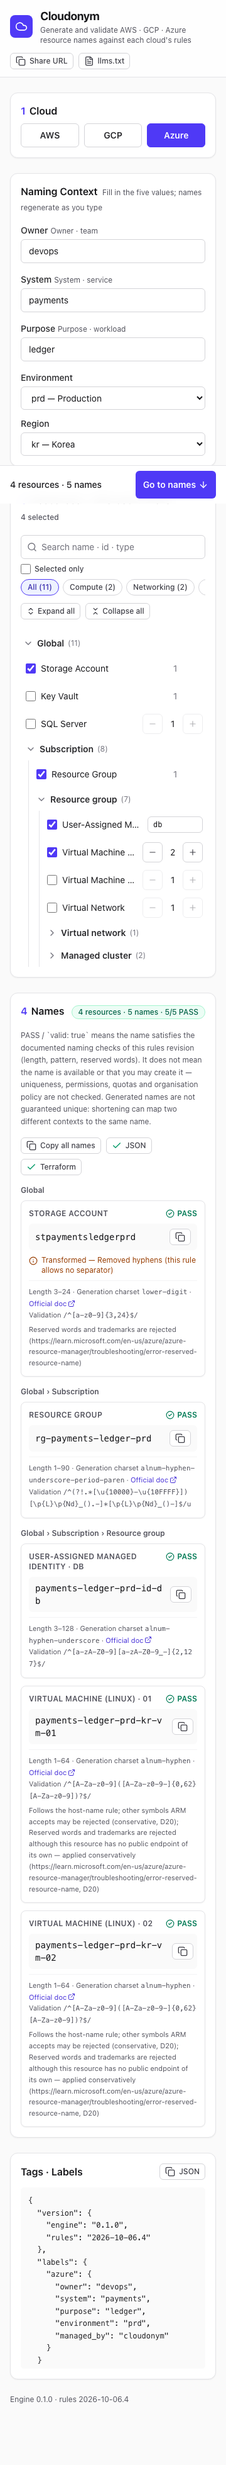
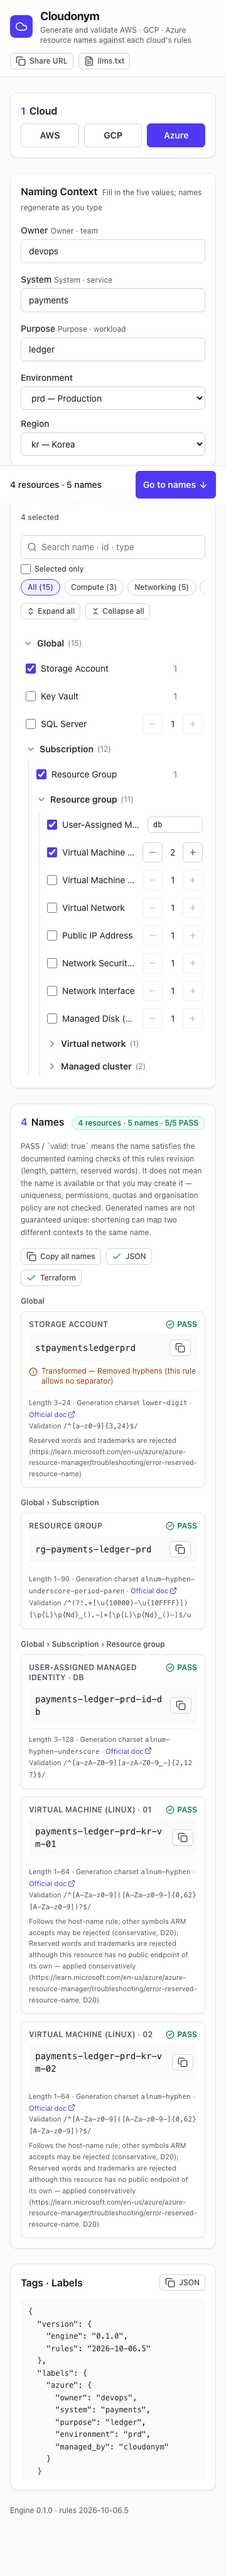
test(ui): 트리 단언을 규칙 수에 묶지 않고 /llms.txt 트리와 성질로 잰다
규칙 11종이 더해지자 screen.py 의 리터럴 단언(분류 칩 행 · 행 수 11 · 처음 펼침 · 접기)이 깨졌다.
Azure 규칙이 크게 늘어도 뜻이 남게 바꾼다.

- 기대 트리는 앱이 내는 /llms.txt 「Resource tree」 Azure 절(타입 · 범위 깊이)에서 읽는다
- 펼친 트리의 (타입, 깊이) 전체가 그 목록과 같다 · 행 수 = 목록 길이 = All 칩 수
- 처음 펼침 = 깊이 0·1 규칙 전부 · 접기 = 깊이 0 규칙 전부 (앵커가 들어 있는지도 본다)
- 분류 칩: 누르면 보이는 행이 전부 그 분류 · 그 분류의 행 전부 · 칩의 수와 같다
- 검색: 펼친 전체 행에서 일치(type · 글자 · entity)를 따로 계산해 화면과 맞춘다
- ArrowDown: 지금 보이는 행 순서에서 VM 바로 다음 행
- 트리 행에 data-rule-category · data-entity 를 더한다(동작 불변 · 칩의 data-category 와 겹치지 않는 이름)

Claude-Session: https://claude.ai/code/session_013cFmk13xQuqLdriiieEhxz

diff --git a/src/components/ResourceTree.tsx b/src/components/ResourceTree.tsx
@@ -226,7 +226,7 @@ const Row = memo(function Row({ rule, entry, canCheck, canInc, onToggle, onCount
   const kind = inputKind(rule);
   const name = { displayName: rule.displayName };
   return (
-    <div data-rule={rule.id} data-type={rule.resourceType} data-checked={checked} className="flex min-h-11 items-center gap-2 rounded-md px-1 hover:bg-zinc-50 dark:hover:bg-zinc-800/60">
+    <div data-rule={rule.id} data-type={rule.resourceType} data-rule-category={rule.category} data-entity={rule.entity} data-checked={checked} className="flex min-h-11 items-center gap-2 rounded-md px-1 hover:bg-zinc-50 dark:hover:bg-zinc-800/60">
       <label className="flex min-w-0 flex-1 cursor-pointer items-center gap-2 text-sm">
         <input type="checkbox" data-row-check checked={checked} disabled={!canCheck} onChange={() => onToggle(rule)}
           aria-label={fillUi(en, 'select_resource_label', name)} className="size-4 shrink-0 accent-indigo-600 disabled:cursor-not-allowed" />

diff --git a/tests/ui/screen.py b/tests/ui/screen.py
@@ -125,6 +125,37 @@ def visible_types(page):
     return page.eval_on_selector_all('[data-tree] [data-rule]', 'els => els.filter(e => e.checkVisibility()).map(e => e.dataset.type)')
 
 
+# 트리의 행 — 타입 · 분류 · entity · 보이는 글자 · 보이는가 · 범위 깊이(뿌리 = 0, 걸러진 트리에서도 조상 범위가 남으므로 같다)
+ROWS_JS = '''els => els.map(e => {
+  let depth = -1;
+  for (let d = e.closest('details[data-scope]'); d; d = d.parentElement.closest('details[data-scope]')) depth++;
+  return { type: e.dataset.type, category: e.dataset.ruleCategory, entity: e.dataset.entity, text: e.innerText, visible: e.checkVisibility(), depth };
+})'''
+
+
+def rows_info(page):
+    return page.eval_on_selector_all('[data-tree] [data-rule]', ROWS_JS)
+
+
+def llms_tree(page, provider):
+    """/llms.txt 「Resource tree」의 한 CSP 절 → [(resource_type, 범위 깊이)] — 화면 밖에서 오는 규칙 목록(시험이 규칙 수를 적어 두지 않는다)"""
+    text = page.request.get(BASE + '/llms.txt').text()
+    sect = text.split('\n## Resource tree\n', 1)[1].split('\n## ', 1)[0]
+    block = sect.split(f'\n### {provider.upper()}\n', 1)[1].split('\n### ', 1)[0]
+    out = []
+    for line in block.splitlines():
+        stripped = line.lstrip(' ')
+        if stripped.startswith(f'- `{provider}.'):  # 규칙 줄은 자기 범위 줄보다 두 칸 안쪽이다
+            out.append((stripped.split('`')[1].split('.', 1)[1], (len(line) - len(stripped)) // 2 - 1))
+    assert out, block
+    return out
+
+
+def chip_count(page, cat):
+    """분류 칩 「Networking (2)」 의 괄호 안 수"""
+    return int(page.locator(f'button[data-category="{cat}"]').inner_text().rsplit('(', 1)[1].rstrip(')'))
+
+
 def no_hangul(page):
     body_text = page.inner_text('body')
     assert not any('가' <= ch <= '힣' or 'ㄱ' <= ch <= 'ㆎ' for ch in body_text), body_text
@@ -185,8 +216,17 @@ with sync_playwright() as p:
 
     # ── ⑾ 개수 → 이름 끝 · seq 없는 규칙은 1 고정 · 역할 · 키보드 ──
     # 처음엔 뿌리 바로 아래 한 단계만 펼친다(계획 §7-4) — Resource group 안은 닫혀 있다
-    assert visible_types(page) == ['storage_account', 'key_vault', 'sql_server', 'resource_group'], visible_types(page)
+    # 기대값은 /llms.txt 의 트리 — 깊이 0 · 1 의 규칙이 전부 보이고 그보다 깊은 규칙은 하나도 보이지 않는다(규칙이 늘어도 뜻이 같다)
+    AZ_TREE = llms_tree(page, 'azure')
+    shallow = sorted(t for t, d in AZ_TREE if d <= 1)
+    assert {'storage_account', 'key_vault', 'sql_server', 'resource_group'} <= set(shallow), shallow  # 앵커 — 이 시나리오가 쓰는 행
+    assert sorted(visible_types(page)) == shallow, (visible_types(page), shallow)
+    assert any(d >= 2 for _, d in AZ_TREE), '깊이 2 이상 규칙이 없으면 「처음엔 닫혀 있다」를 잰 것이 아니다'
     page.click('[data-expand-all]')
+    ALL_ROWS = rows_info(page)
+    # 펼친 트리 = /llms.txt 의 트리(타입 · 깊이) — 화면이 규칙을 빼거나 엉뚱한 범위에 그리면 여기서 걸린다
+    assert sorted((r['type'], r['depth']) for r in ALL_ROWS) == sorted(AZ_TREE), (ALL_ROWS, AZ_TREE)
+    assert all(r['visible'] for r in ALL_ROWS), [r['type'] for r in ALL_ROWS if not r['visible']]
     expect(row(page, 'subnet')).to_be_visible()
     for t in ('storage_account', 'resource_group', 'managed_identity', 'virtual_machine'):
         check(page, t)
@@ -201,8 +241,9 @@ with sync_playwright() as p:
     page.keyboard.press('-')
     expect(vm_row.locator('[data-count]')).to_have_text('2')
     expect(page.locator('article[data-key="virtual_machine_03"]')).to_have_count(0)
-    page.keyboard.press('ArrowDown')  # 다음 행(Windows VM)으로
-    assert page.evaluate("document.activeElement.closest('[data-rule]')?.dataset.type") == 'virtual_machine_windows'
+    shown = visible_types(page)
+    page.keyboard.press('ArrowDown')  # 화면에 보이는 다음 행으로 — 기대값은 지금 보이는 행 순서에서 VM 바로 다음
+    assert page.evaluate("document.activeElement.closest('[data-rule]')?.dataset.type") == shown[shown.index('virtual_machine') + 1], shown
     role_input = row(page, 'managed_identity').locator('[data-role-input]')
     expect(role_input).to_have_value('sync')
     role_input.fill('D')  # 꼴이 틀리면 반영하지 않고 aria-invalid
@@ -249,20 +290,32 @@ with sync_playwright() as p:
     # ── ⑿ 검색 · 분류 칩 · 선택만 보기 ──
     search = page.locator('[data-tree-search]')
     search.fill('subnet')
-    expect(tree_rows(page)).to_have_count(1)
-    assert visible_types(page) == ['subnet'], visible_types(page)  # 일치하는 행의 조상만 펼친다
+    # 검색 일치(displayName · type · slug · entity 소문자 부분 일치)를 펼친 전체 행에서 따로 계산해 화면과 맞춘다
+    hit = lambda r: 'subnet' in (r['type'] + ' ' + r['text'] + ' ' + r['entity']).lower()
+    want = sorted(r['type'] for r in ALL_ROWS if hit(r))
+    assert 'subnet' in want and len(want) < len(ALL_ROWS), want  # 공허하지 않다 — 일치가 있고 걸러지는 행도 있다
+    expect(tree_rows(page)).to_have_count(len(want))
+    assert sorted(visible_types(page)) == want, visible_types(page)  # 일치하는 행만 남고 그 조상은 펼친다
     search.fill('zzz-none')
     expect(page.locator('[data-search-empty]')).to_have_text('No resource matches. A resource missing from this list is not supported yet.')
     search.fill('')
-    page.click('[data-category="networking"]')
-    assert sorted(visible_types(page)) == ['subnet', 'virtual_network'], visible_types(page)
-    page.click('[data-category="all"]')
+    # 분류 칩 — 누르면 그 분류의 행만 전부 보인다 · 칩의 수 = 그 수 · 앵커 둘이 들어 있다
+    net = sorted(r['type'] for r in ALL_ROWS if r['category'] == 'networking')
+    assert {'subnet', 'virtual_network'} <= set(net) and len(net) < len(ALL_ROWS), net
+    assert chip_count(page, 'networking') == len(net), (chip_count(page, 'networking'), net)
+    page.click('button[data-category="networking"]')
+    assert all(r['category'] == 'networking' for r in rows_info(page)), rows_info(page)
+    assert sorted(visible_types(page)) == net, visible_types(page)
+    page.click('button[data-category="all"]')
     page.check('[data-selected-only]')
     assert visible_types(page) == ['storage_account', 'resource_group', 'managed_identity', 'virtual_machine'], visible_types(page)
     page.uncheck('[data-selected-only]')
-    expect(tree_rows(page)).to_have_count(11)
-    page.click('[data-collapse-all]')  # 뿌리만 열어 둔다
-    assert visible_types(page) == ['storage_account', 'key_vault', 'sql_server'], visible_types(page)
+    expect(tree_rows(page)).to_have_count(len(AZ_TREE))
+    assert chip_count(page, 'all') == len(AZ_TREE), chip_count(page, 'all')
+    page.click('[data-collapse-all]')  # 뿌리만 열어 둔다 — 깊이 0 의 규칙만 보인다
+    roots = sorted(t for t, d in AZ_TREE if d == 0)
+    assert {'storage_account', 'key_vault', 'sql_server'} <= set(roots) and len(roots) < len(AZ_TREE), roots
+    assert sorted(visible_types(page)) == roots, visible_types(page)
     page.click('[data-expand-all]')
 
     # ── ⑵ 공유 URL 을 새 탭(새 컨텍스트 = 빈 sessionStorage)에 붙이면 문맥 · CSP · 선택이 복원된다 ──
